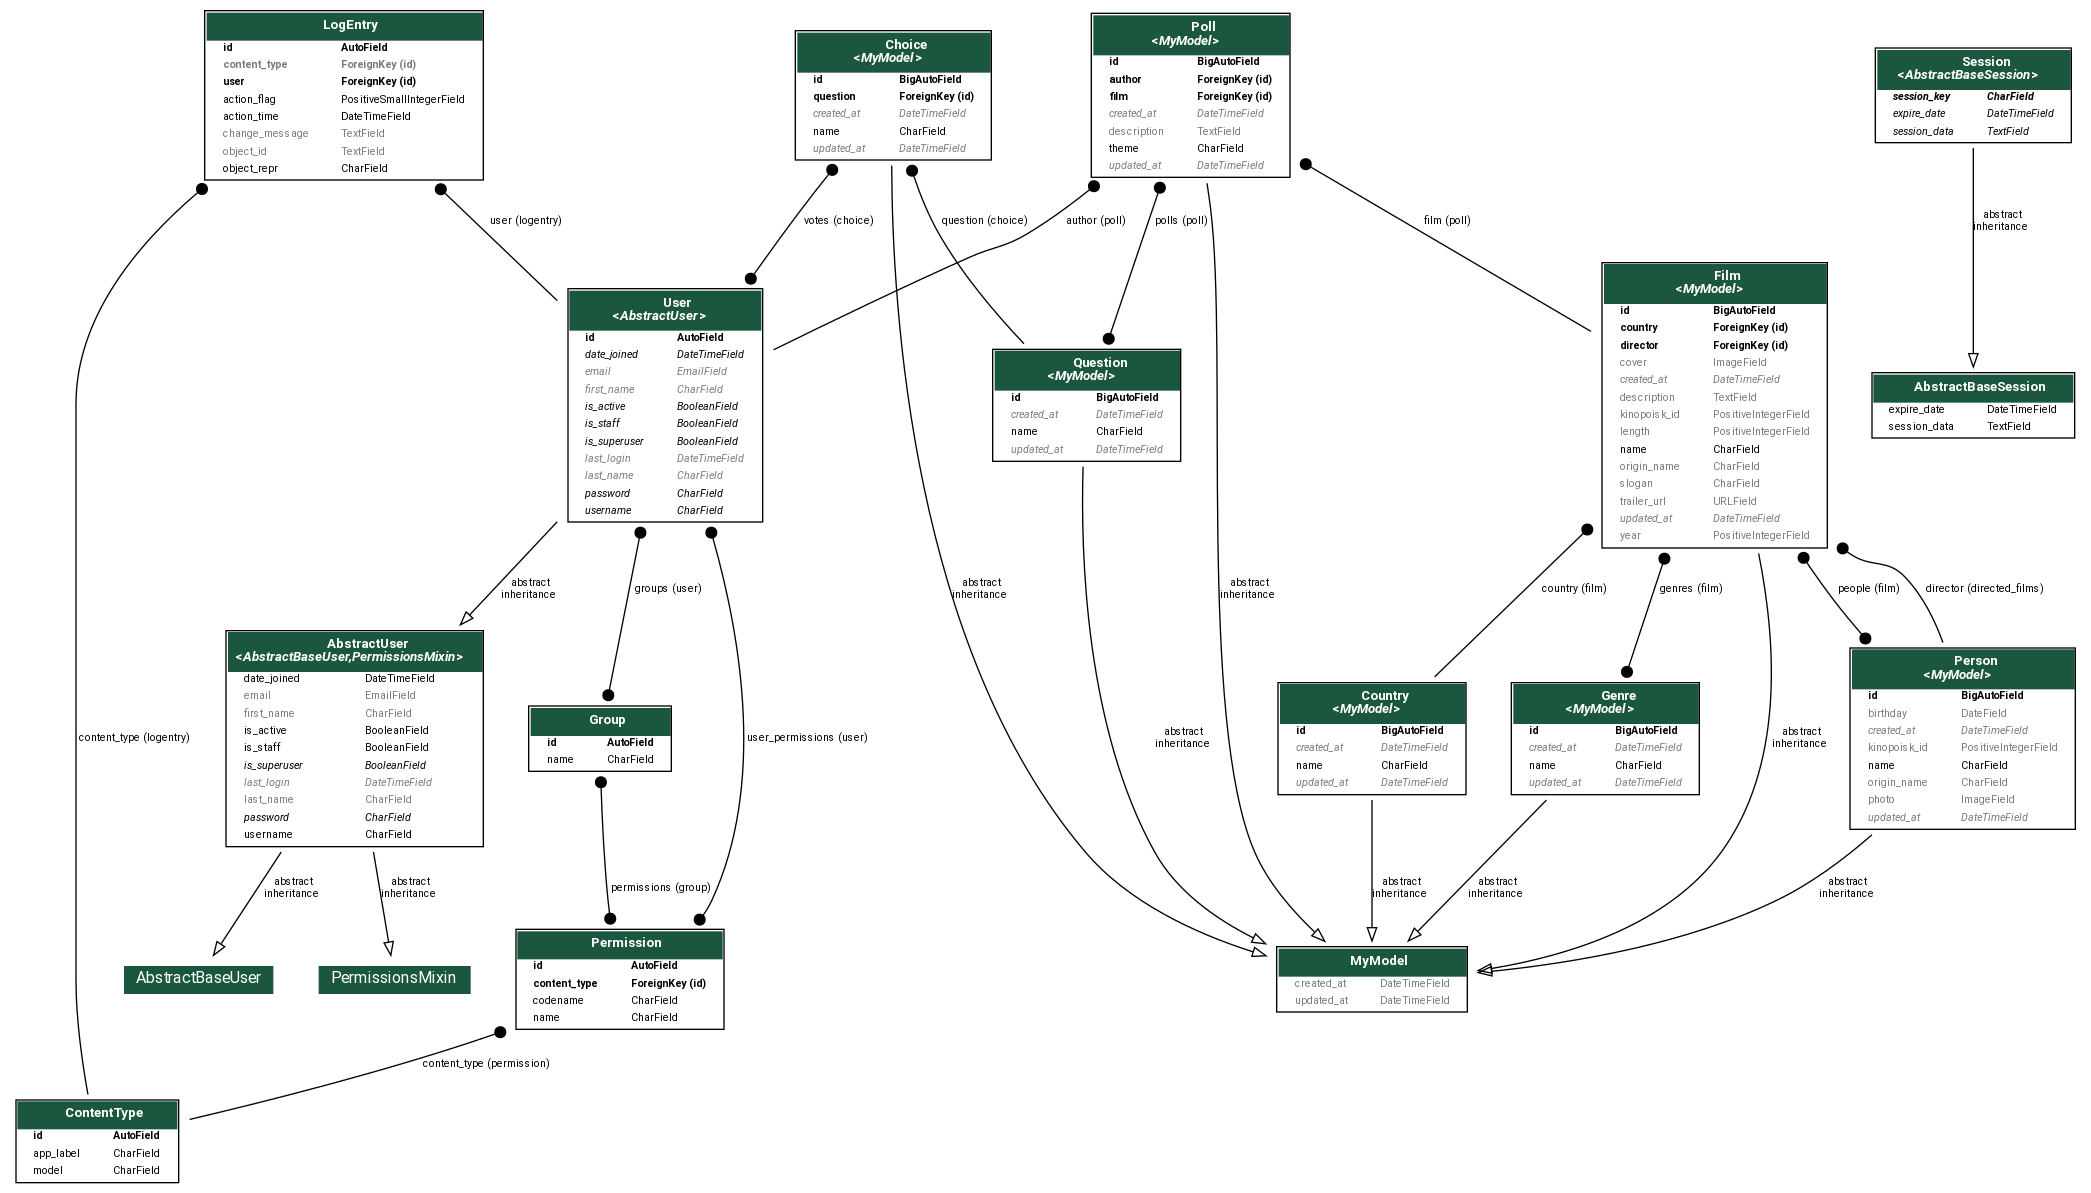
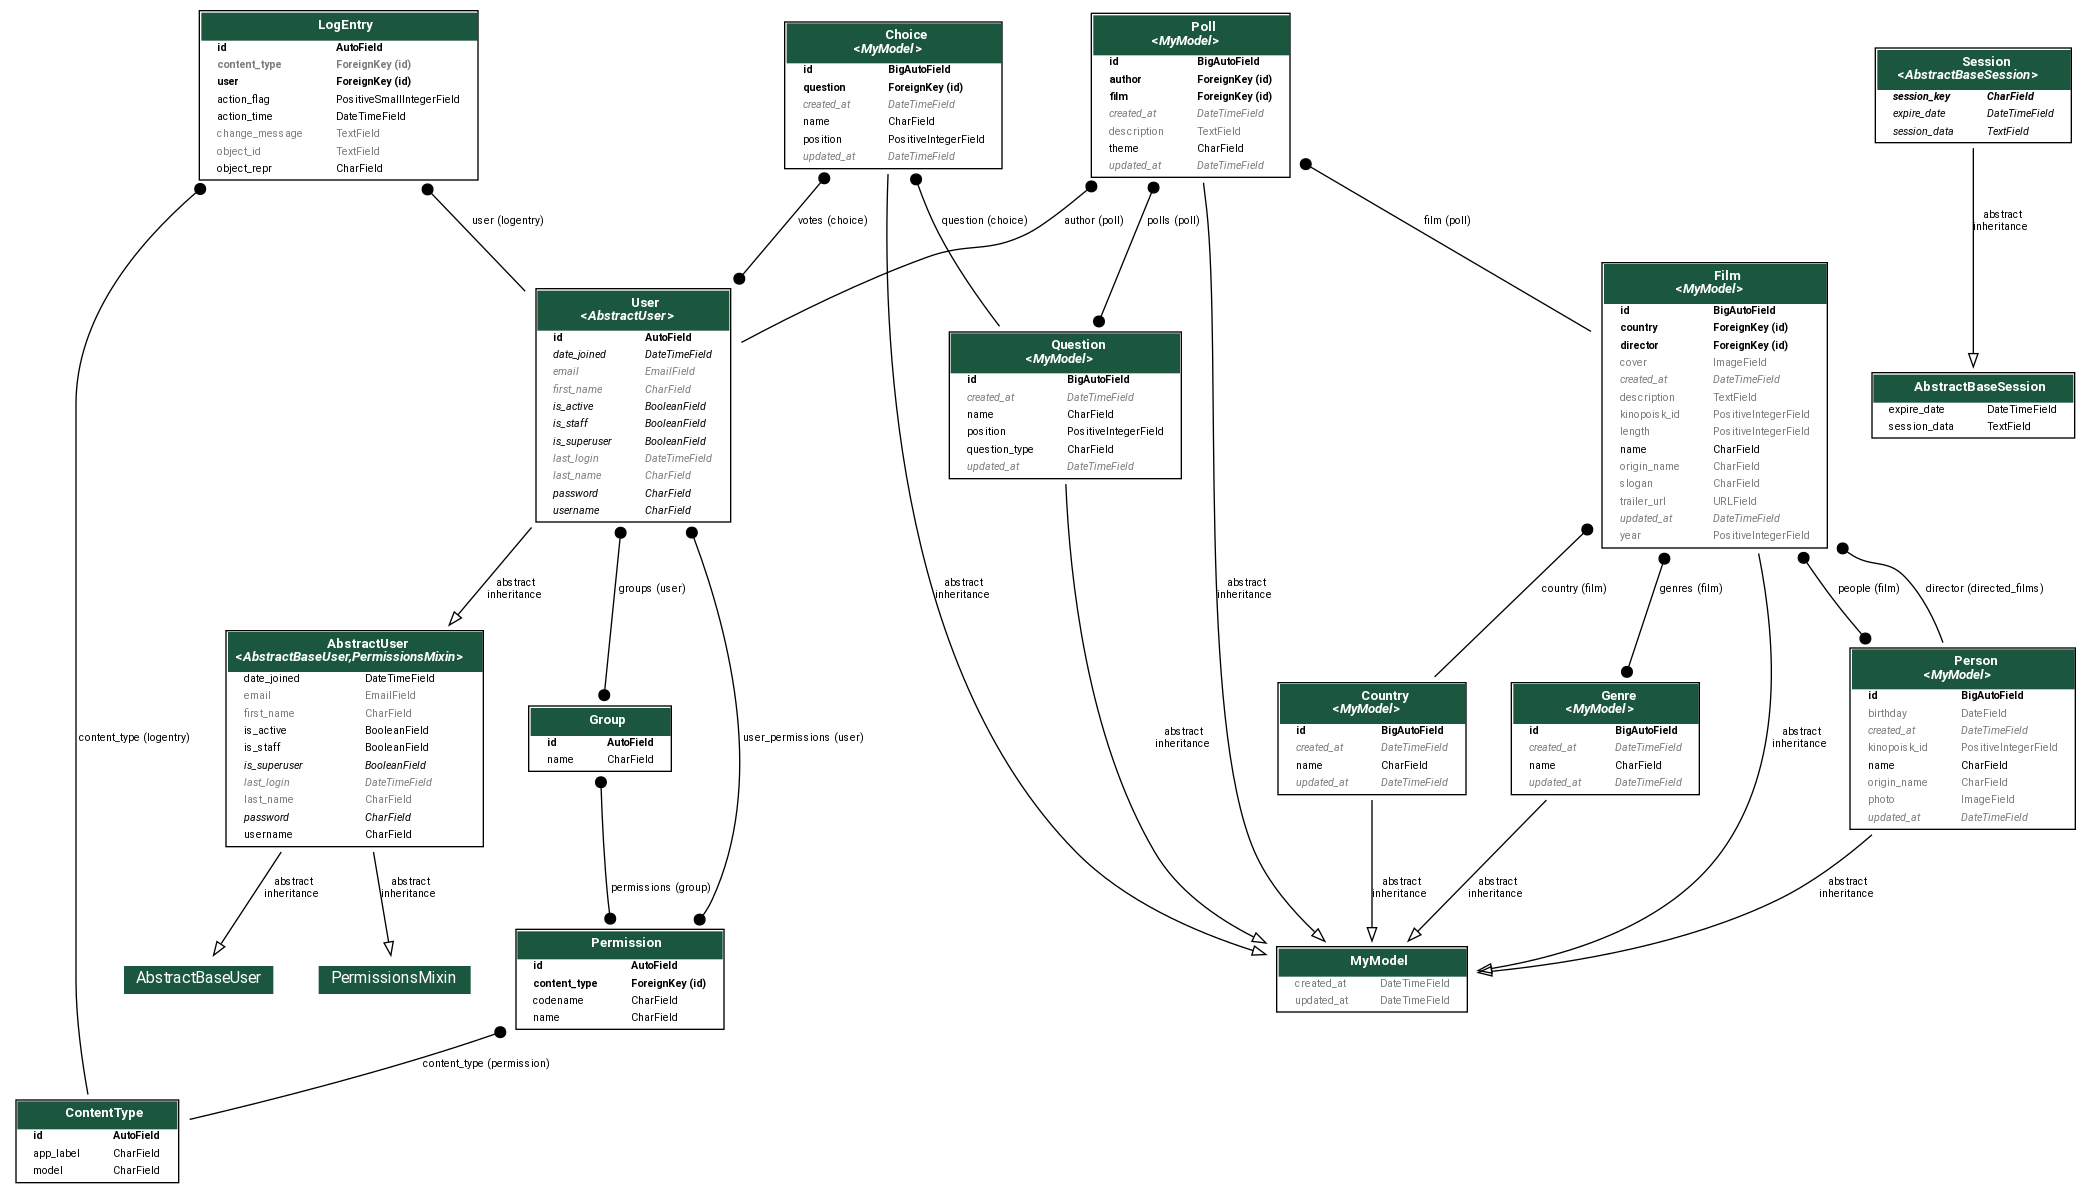
Added positions to questions and choices

diff --git a/polls/migrations/0007_choice_position_question_position_and_more.py b/polls/migrations/0007_choice_position_question_position_and_more.py
@@ -1,0 +1,30 @@
+# Generated by Django 5.1.4 on 2024-12-11 14:27
+
+from django.db import migrations, models
+
+
+class Migration(migrations.Migration):
+
+    dependencies = [
+        ('polls', '0006_question_alter_choice_options_alter_poll_options_and_more'),
+    ]
+
+    operations = [
+        migrations.AddField(
+            model_name='choice',
+            name='position',
+            field=models.PositiveIntegerField(default=0, verbose_name='Позиция варианта ответа'),
+            preserve_default=False,
+        ),
+        migrations.AddField(
+            model_name='question',
+            name='position',
+            field=models.PositiveIntegerField(default=0, verbose_name='Позиция вопроса'),
+            preserve_default=False,
+        ),
+        migrations.AddField(
+            model_name='question',
+            name='question_type',
+            field=models.CharField(choices=[('Один', 'Один вариант ответа'), ('Несколько', 'Несколько вариантов ответа')], default=('Один', 'Один вариант ответа'), max_length=10),
+        ),
+    ]

diff --git a/polls/models.py b/polls/models.py
@@ -5,7 +5,12 @@ from films.models import MyModel, Film
 
 
 class Question(MyModel):
+    question_types = (("Один", "Один вариант ответа"),("Несколько", "Несколько вариантов ответа"))
+
     name = models.CharField("Вопрос", max_length=1024)
+    question_type = models.CharField(max_length=10, choices=question_types, default=question_types[0])
+
+    position = models.PositiveIntegerField("Позиция вопроса")
 
     class Meta:
         ordering = ["name"]
@@ -20,6 +25,8 @@ class Choice(MyModel):
     name = models.CharField(max_length=200, verbose_name="Вариант ответа")
     question = models.ForeignKey(Question, on_delete=models.CASCADE, verbose_name="Вопрос")
     votes = models.ManyToManyField(User, verbose_name="Проголосовавшие")
+
+    position = models.PositiveIntegerField("Позиция варианта ответа")
 
     class Meta:
         ordering = ["name"]

diff --git a/polls/admin.py b/polls/admin.py
@@ -1,6 +1,7 @@
 from django.contrib import admin
-from polls.models import Poll, Choice
+from polls.models import Poll, Choice, Question
 
 
 admin.site.register(Poll)
+admin.site.register(Question)
 admin.site.register(Choice)
